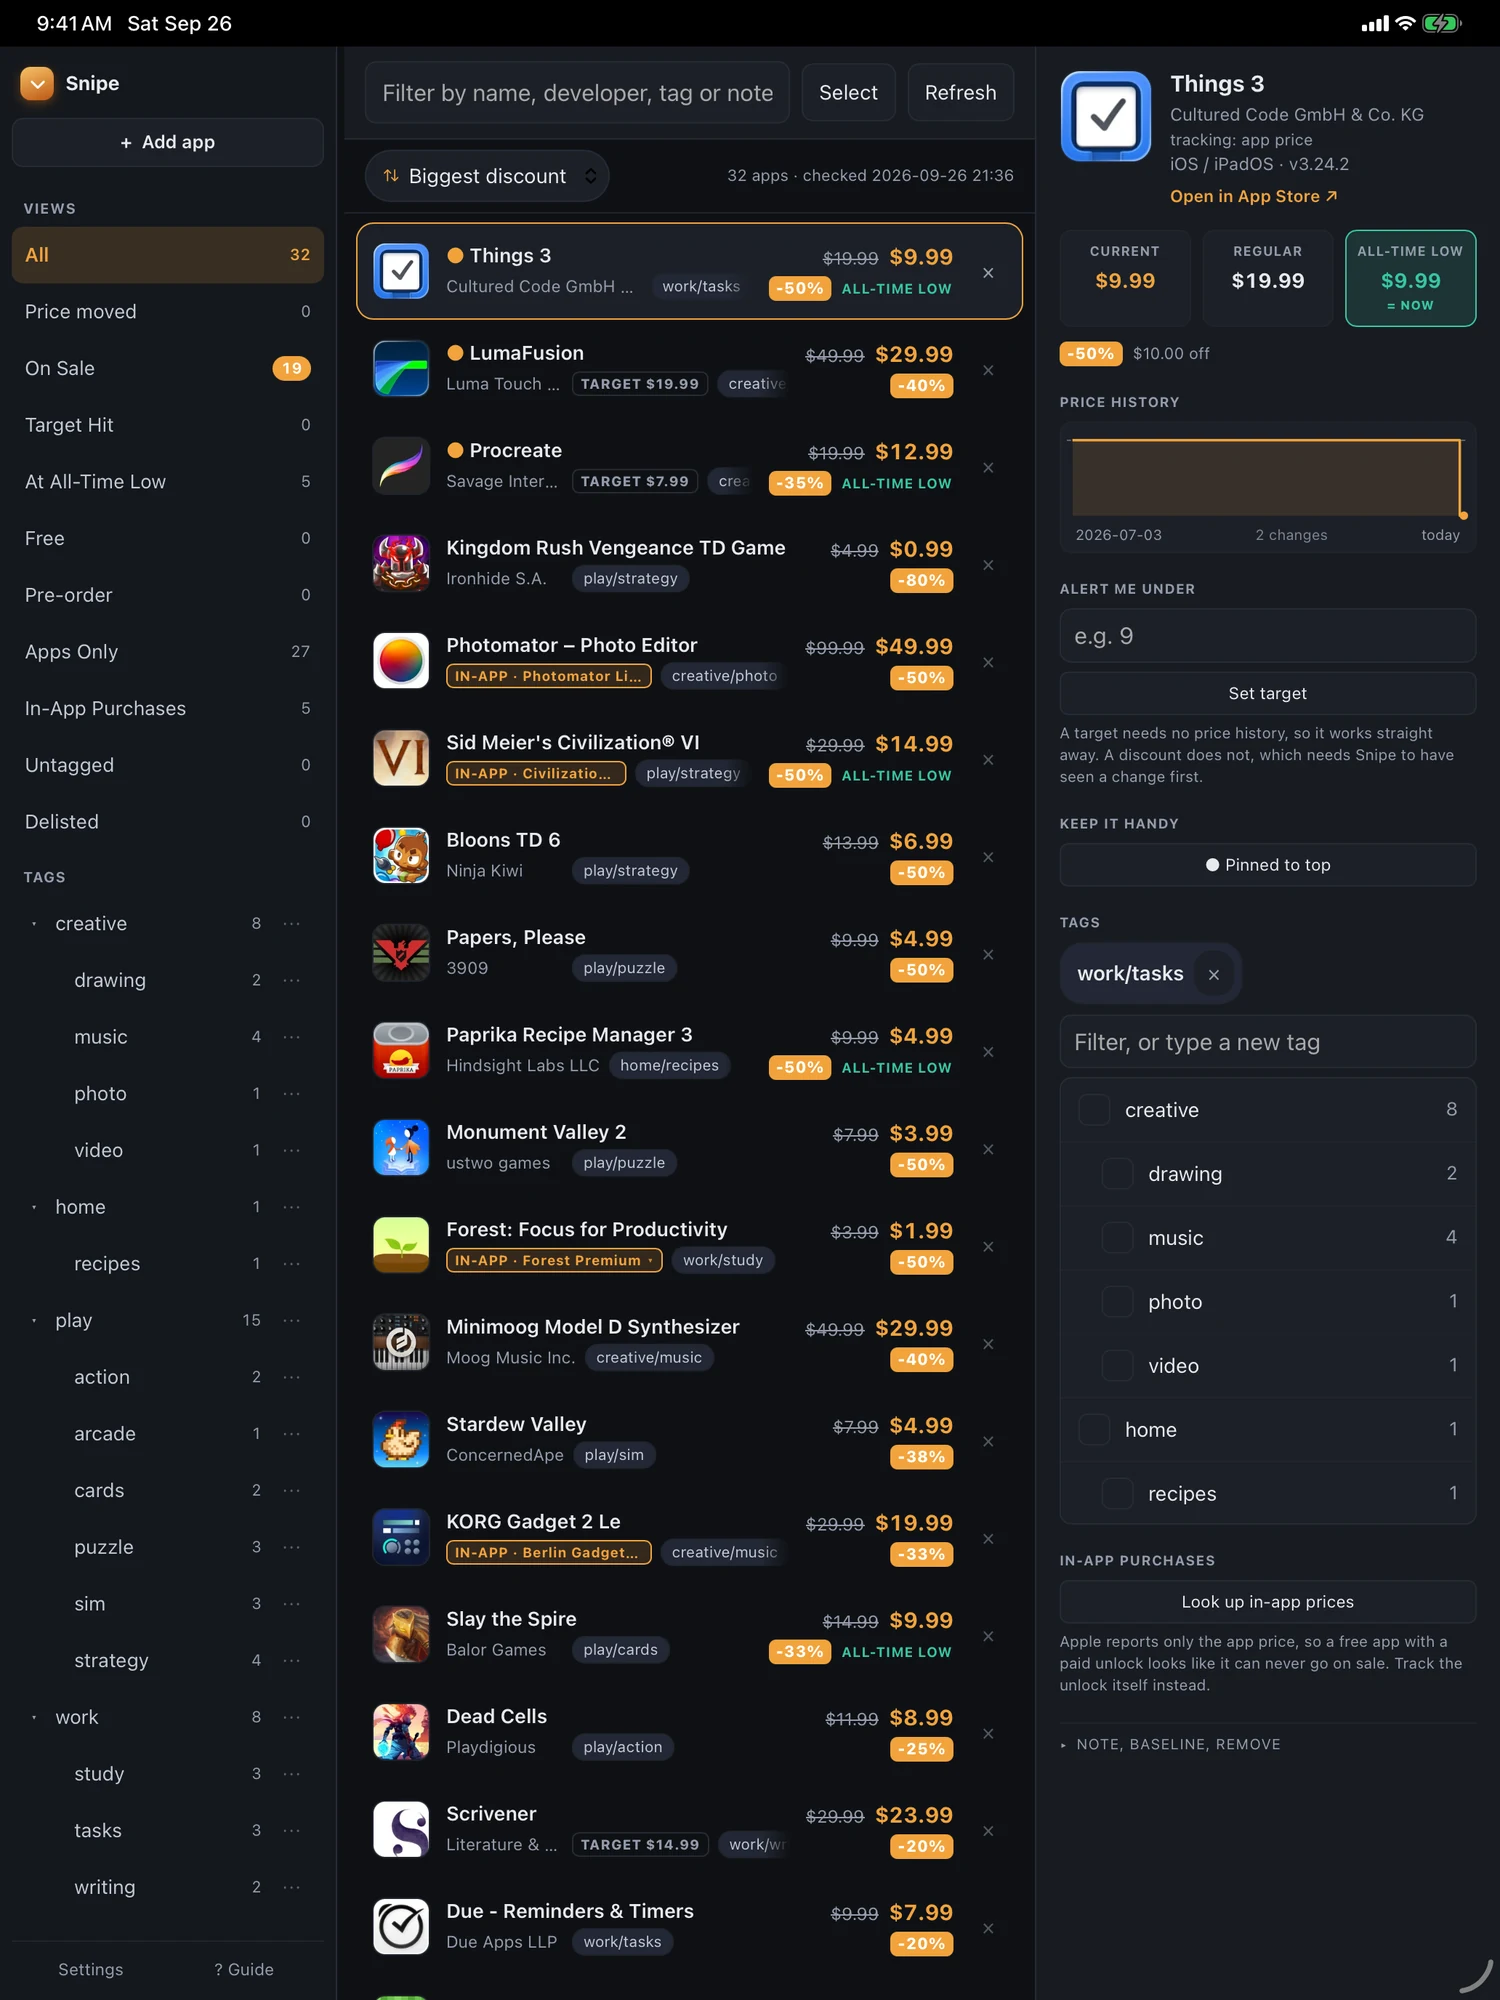
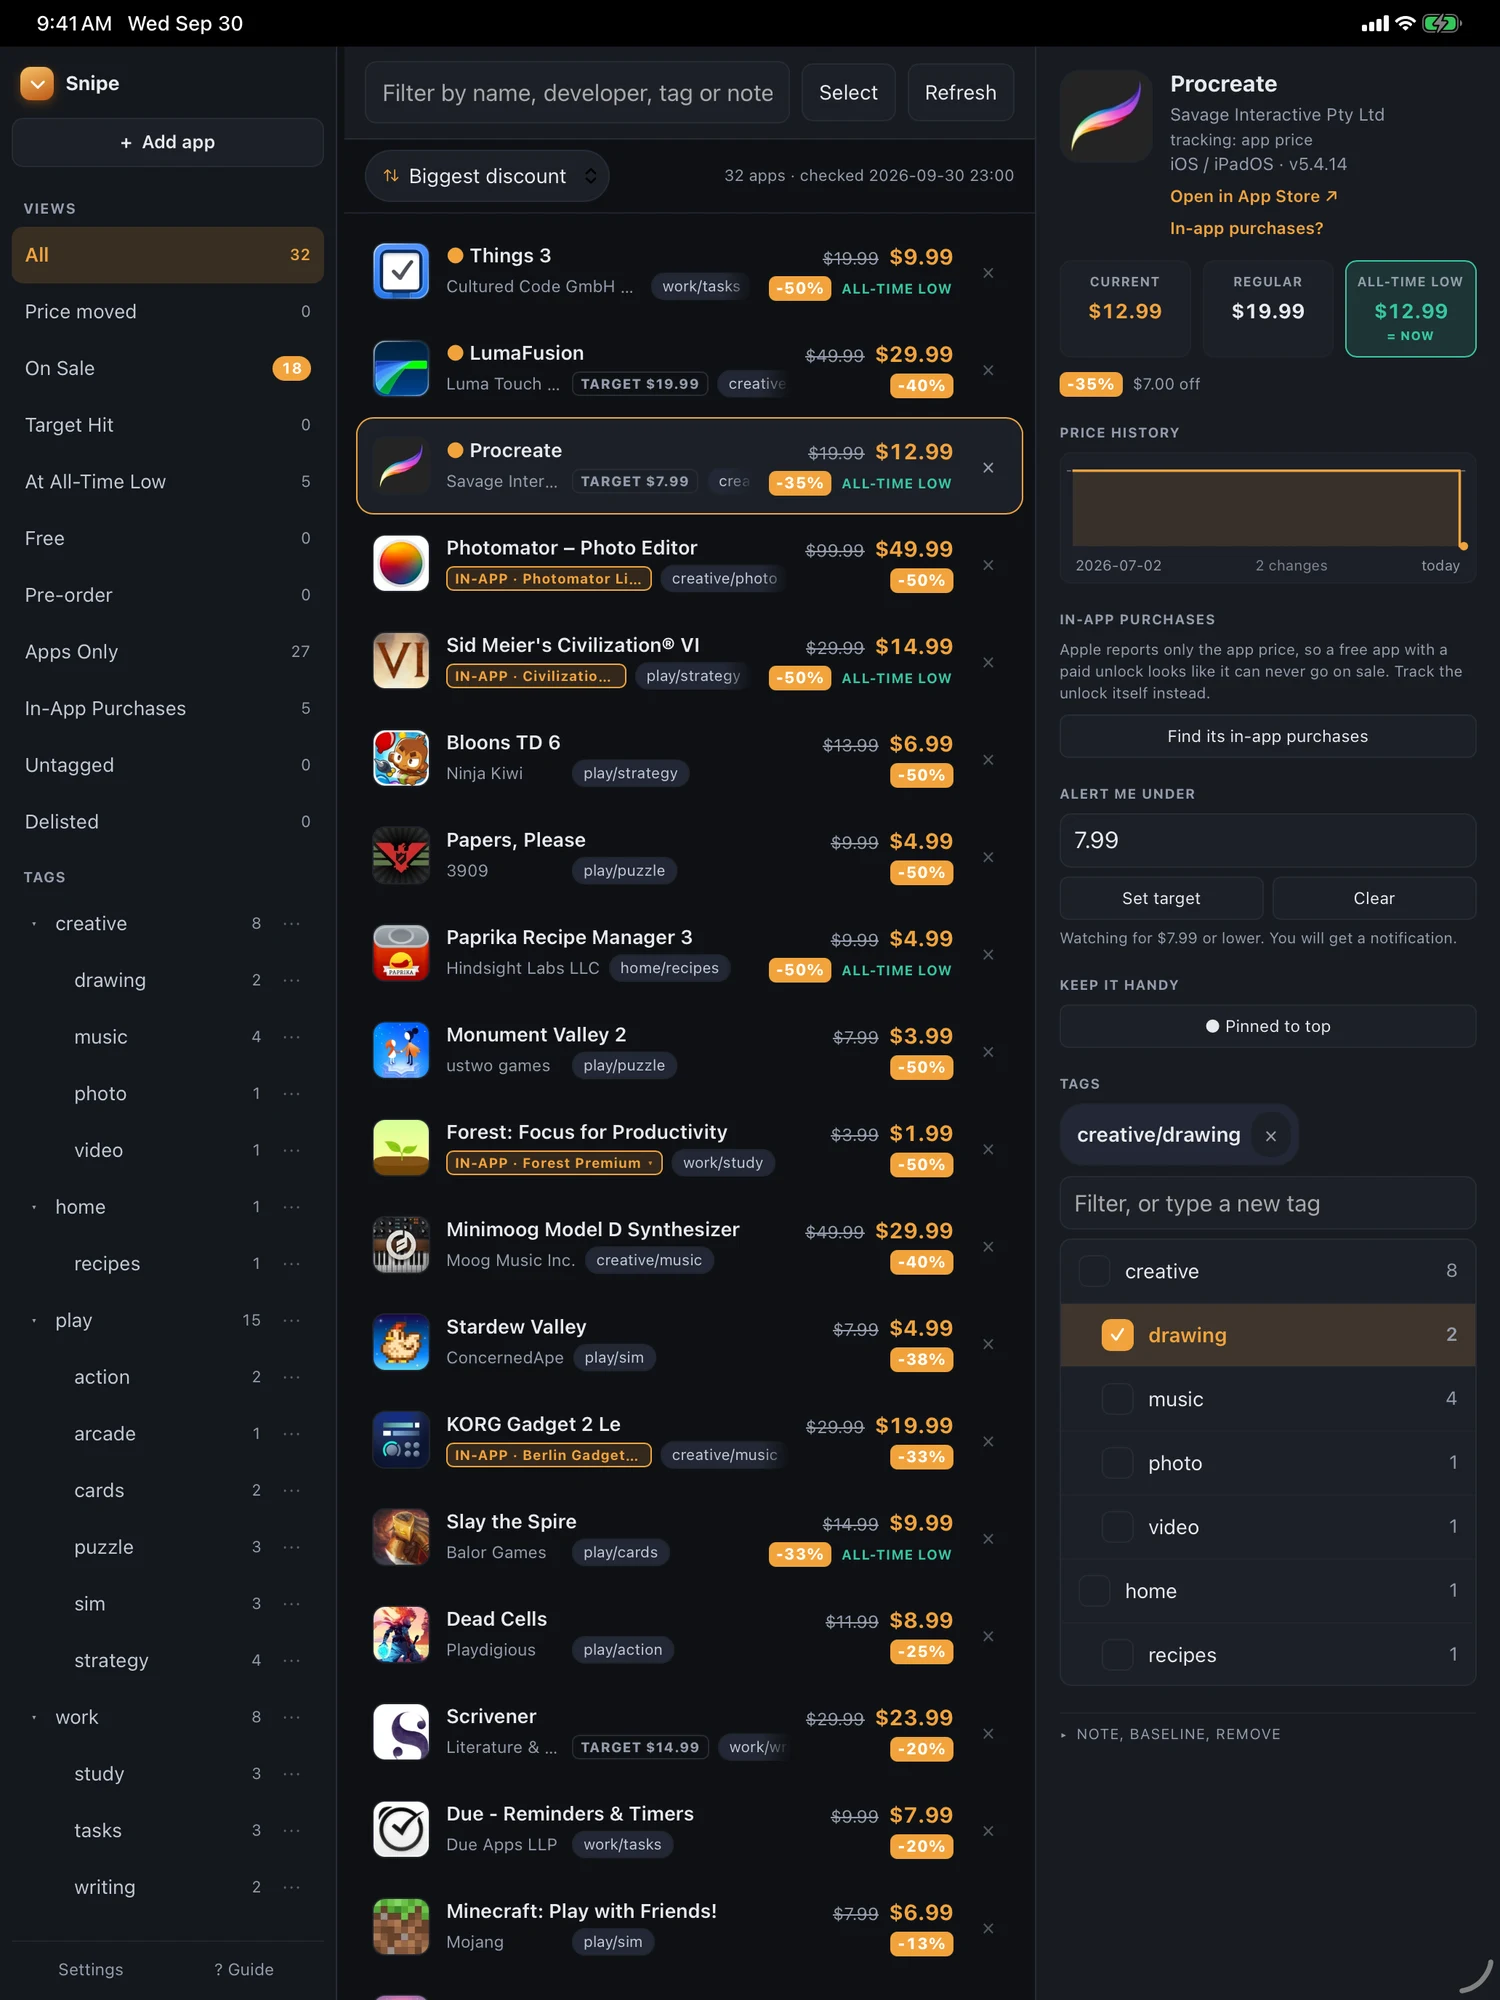
Re-shoot the detail screenshots for the new in-app purchases layout, and say the Free view finds them for you

diff --git a/index.html b/index.html
@@ -423,14 +423,15 @@ footer .dc-mark{vertical-align:-3px}
       <p>
         Snipe watches the purchase itself. Point it at Procreate's unlock, a Gadget pack,
         a full-game upgrade, and it tracks that price the same way it tracks any other.
-        It is the only way to follow most of the App Store.
+        It is the only way to follow most of the App Store.</p>
+      <p>Any app on your list will show you what is inside it, and the Free view goes further: every free app you watch has a price of $0.00 that can never move, so Snipe offers to read their store pages and hand you the unlocks it finds.
       </p>
     </div>
     <figure class="show-fig pad">
       <picture>
         <source srcset="img/ipad-detail-dark.webp" media="(prefers-color-scheme: dark)">
         <img src="img/ipad-detail.webp" width="1500" height="2000" loading="lazy" decoding="async"
-             alt="Snipe on iPad with an app selected: current, regular and all-time-low prices side by side, a price history chart, a target field, a tag picker, and an in-app purchases panel offering to look up in-app prices.">
+             alt="Snipe on iPad: the tag sidebar, a list of apps with their discounts, and Procreate selected in the inspector — current, regular and all-time-low prices side by side, a price history chart, a Find its in-app purchases button, a target set at $7.99, and its tags.">
       </picture>
     </figure>
   </div>
@@ -477,7 +478,7 @@ footer .dc-mark{vertical-align:-3px}
       <picture>
         <source srcset="img/iphone-detail-dark.webp" media="(prefers-color-scheme: dark)">
         <img src="img/iphone-detail.webp" width="660" height="1434" loading="lazy" decoding="async"
-             alt="Procreate in Snipe on iPhone: current $12.99, regular $19.99, all-time low $12.99 marked as now, a 35 percent discount, a price history chart, and an alert set for $7.99 or lower.">
+             alt="Procreate in Snipe on iPhone: current $12.99, regular $19.99, all-time low $12.99 marked as now, a 35 percent discount, a price history chart, a Find its in-app purchases button, and an alert set for $7.99 or lower.">
       </picture>
     </figure>
   </div>
